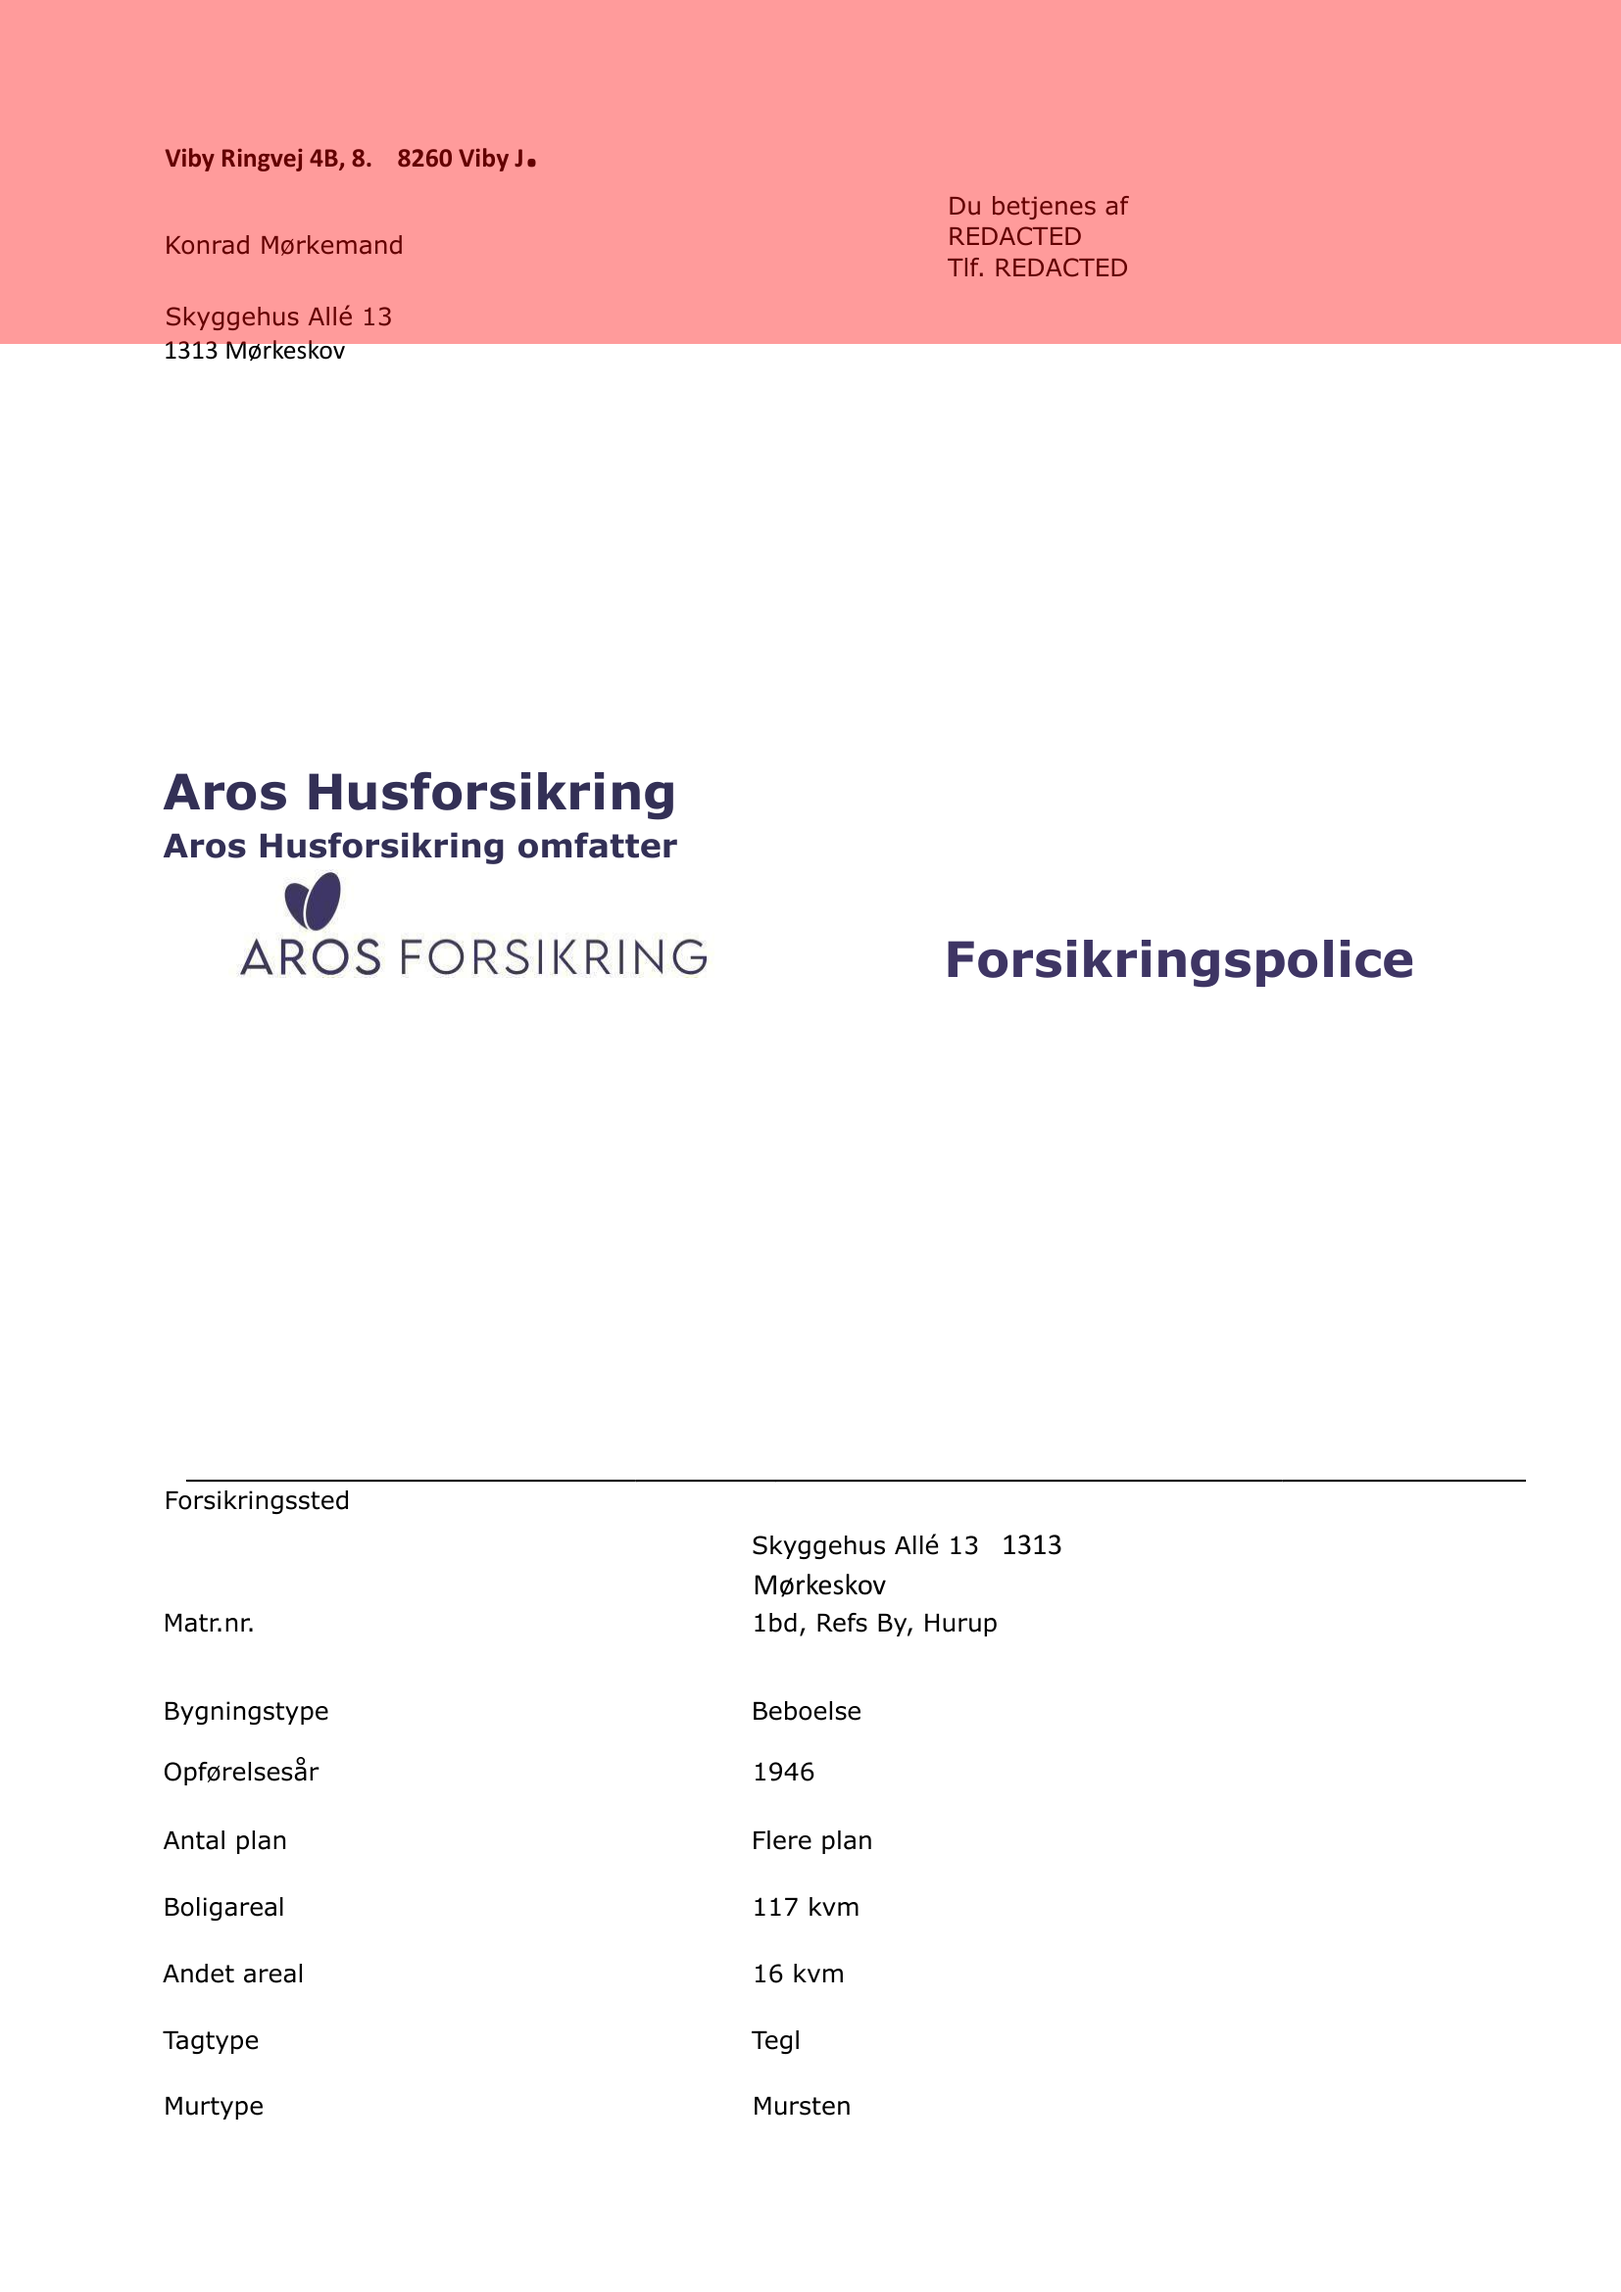
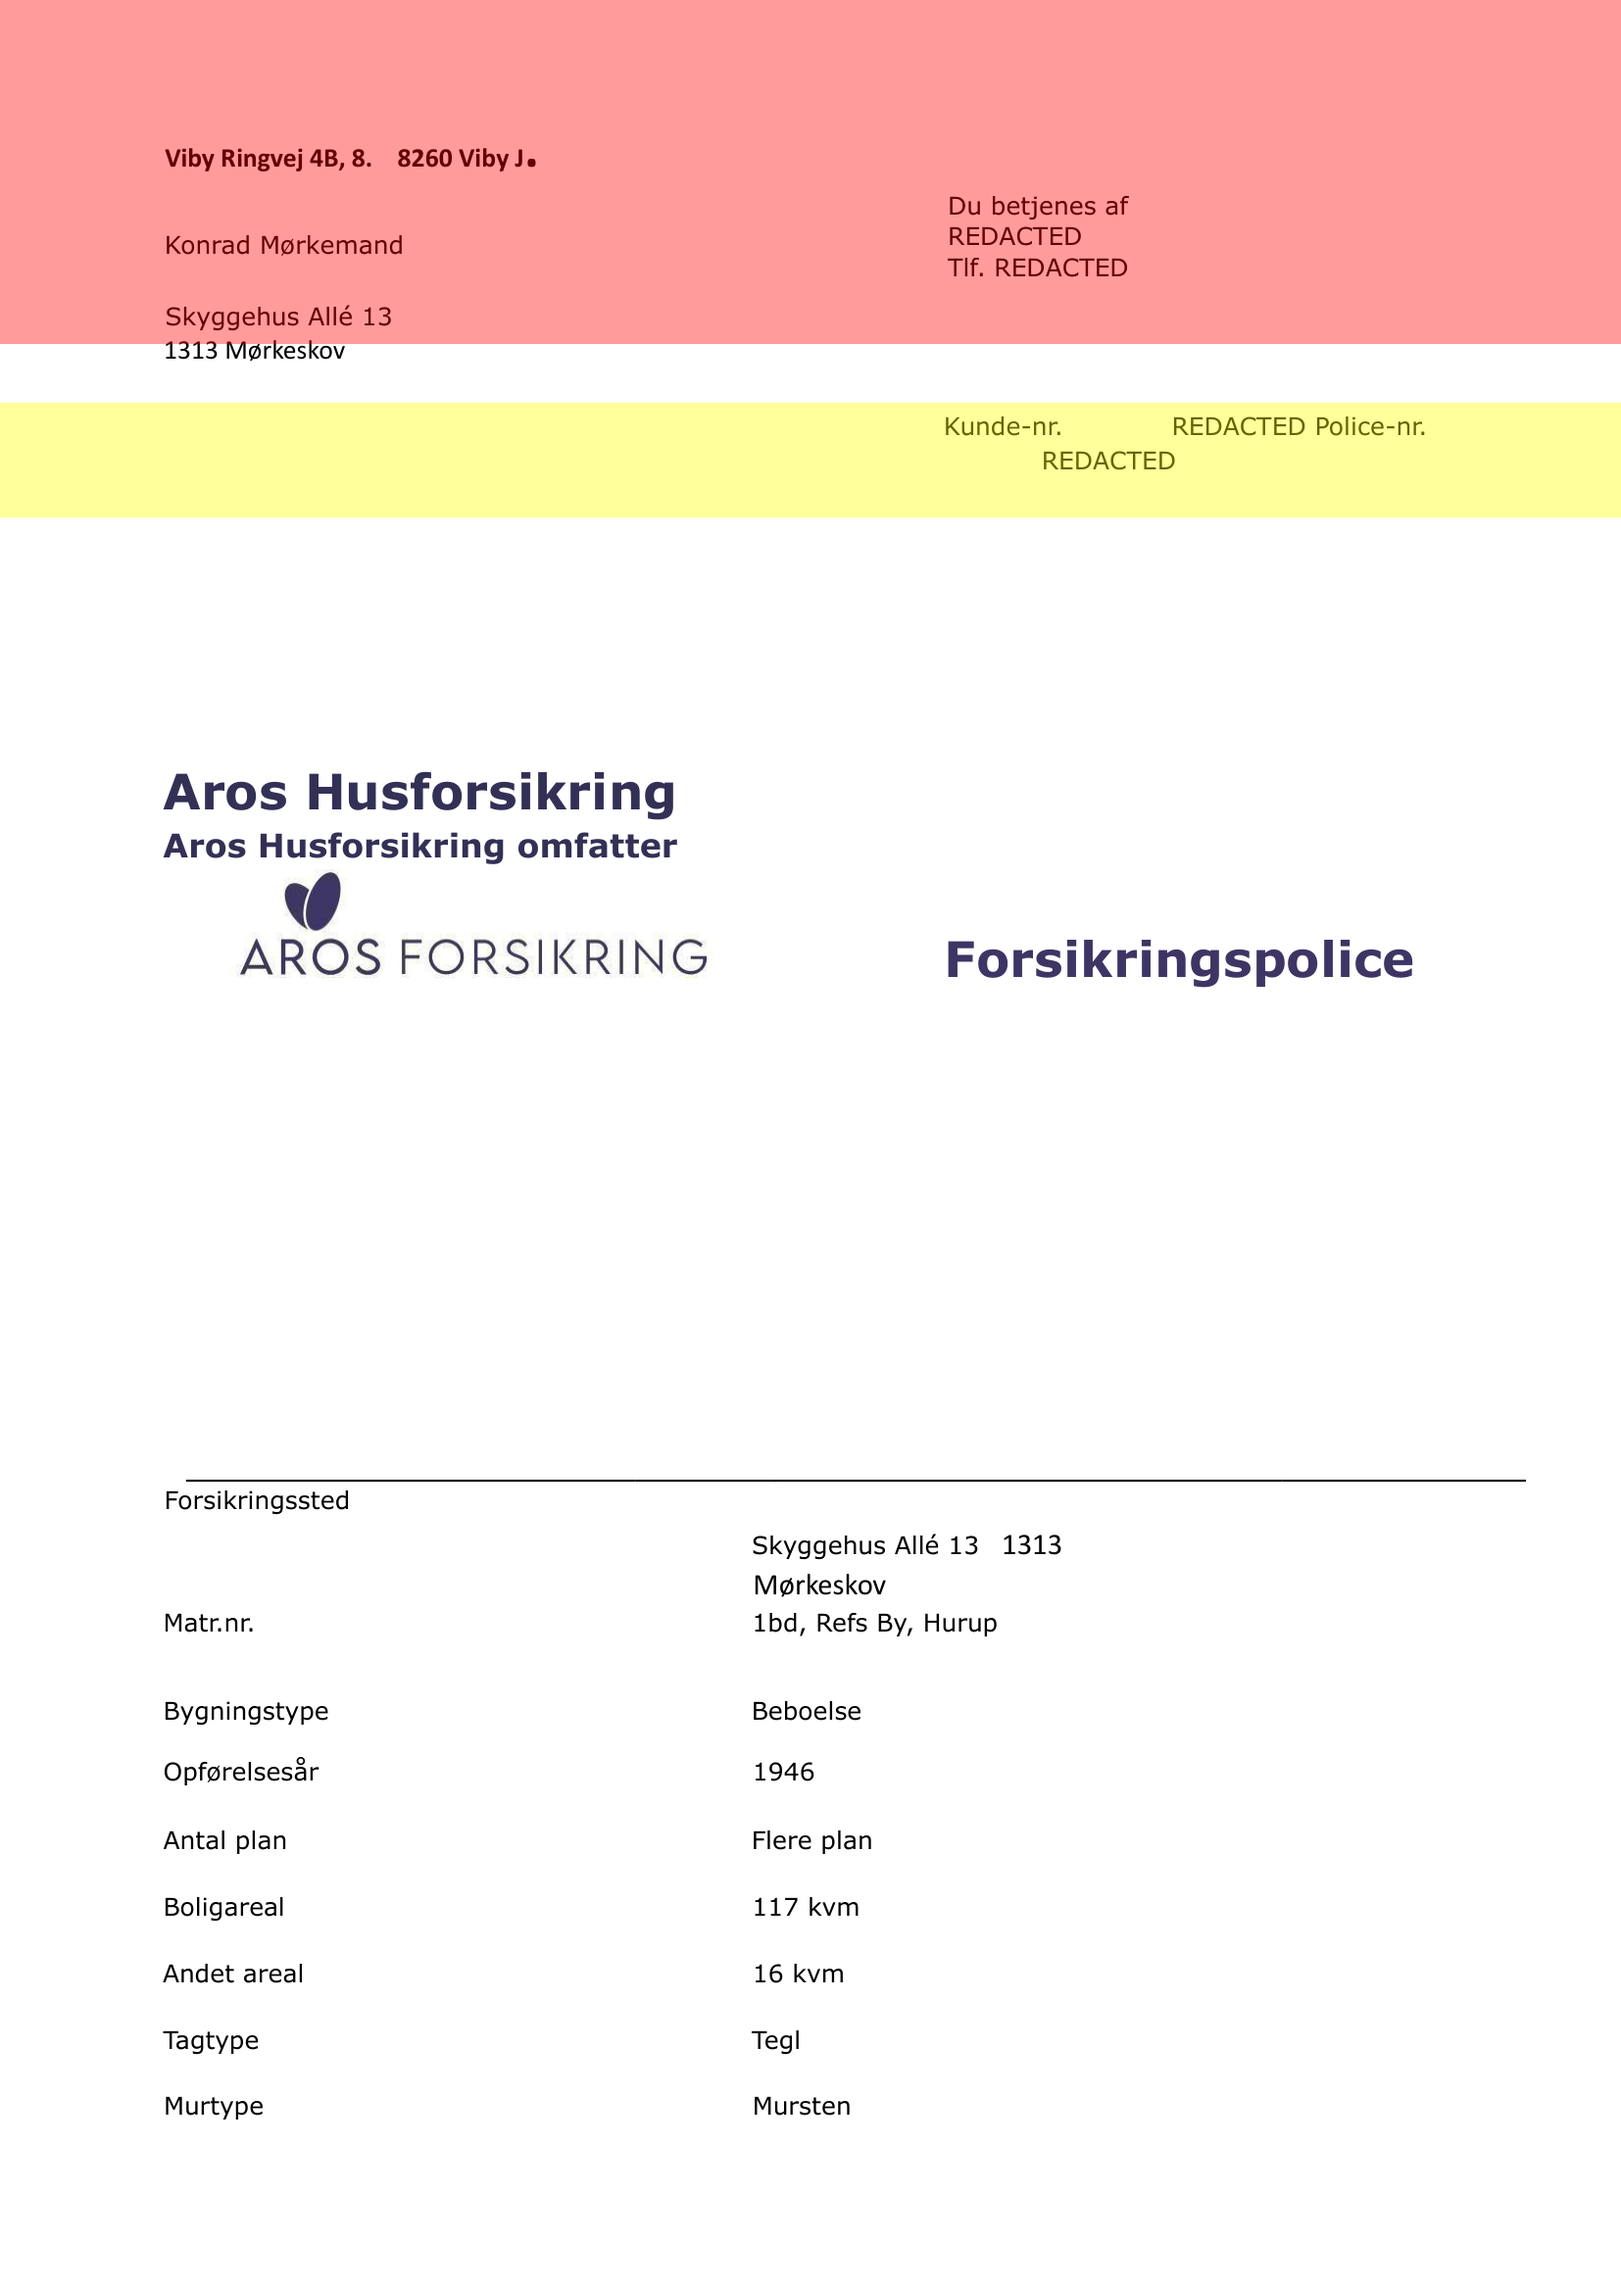
Better debug image

Changed region(s): [[0.0, 0.156, 1.0, 0.2497]]

diff --git a/backend/models/tesseractocr.py b/backend/models/tesseractocr.py
@@ -8,8 +8,11 @@ import os
 from PIL import ImageDraw
 import pandas as pd
 
-def erase_from_text_start(image, crop_percent=25, buffer_px=10, lang="dan", top_percent=15, right_percent=100):
-    """Ignore top-right corner for content start, then blank upward-adjusted crop region."""
+def erase_from_text_start(image, crop_percent=25, buffer_px=10, lang="dan", top_percent=15, right_percent=100, debug_save_path=None):
+    """Highlight areas with semi-transparent red/yellow directly on RGB image before erasing."""
+    import pytesseract
+    from PIL import ImageDraw
+
     ocr_data = pytesseract.image_to_data(image, lang=lang, output_type=pytesseract.Output.DATAFRAME)
     valid_data = ocr_data[(ocr_data.conf != -1) & (ocr_data.text.notna()) & (ocr_data.text.str.strip() != "")]
 
@@ -23,11 +26,9 @@ def erase_from_text_start(image, crop_percent=25, buffer_px=10, lang="dan", top_
 
     draw = ImageDraw.Draw(image, "RGBA")
 
-    # Draw exclusion zone (semi-transparent red in top-right)
-    exclusion_color = (255, 0, 0, 100)
-    draw.rectangle([(right_x_start, 0), (width, top_y_end)], fill=exclusion_color)
+    # ✅ Draw semi-transparent red (exclusion zone)
+    draw.rectangle([(right_x_start, 0), (width, top_y_end)], fill=(255, 0, 0, 100))
 
-    # Filter out text in exclusion zone
     filtered_data = valid_data[
         ~(
             (valid_data.left >= right_x_start) &
@@ -39,23 +40,34 @@ def erase_from_text_start(image, crop_percent=25, buffer_px=10, lang="dan", top_
         print("⚠ All text was in the exclusion zone. Skipping blanking.")
         return image
 
-    # Adjust crop start upward slightly and determine crop range
     start_y_raw = filtered_data['top'].min()
     erase_y_start = max(0, start_y_raw - buffer_px)
     crop_height = int(height * (crop_percent / 100.0))
     erase_y_end = min(height, erase_y_start + crop_height)
 
-    # Draw blanked area (semi-transparent yellow)
-    blank_color = (255, 255, 0, 100)
-    draw.rectangle([(0, erase_y_start), (width, erase_y_end)], fill=blank_color)
+    # ✅ Draw semi-transparent yellow (erase zone)
+    draw.rectangle([(0, erase_y_start), (width, erase_y_end)], fill=(255, 255, 0, 100))
 
-    # Actually blank the area for OCR
+    # ✅ Save before white-out
+    if debug_save_path:
+        image.save(debug_save_path)
+        print(f"✅ Debug image saved to {debug_save_path}")
+
+    # ✅ Now actually erase
     draw.rectangle([(0, erase_y_start), (width, erase_y_end)], fill="white")
 
-    print(f"Blanked from Y={erase_y_start}px to Y={erase_y_end}px (text starts at Y={start_y_raw}, adjusted up by {buffer_px}px)")
+    print(f"✂ Blanked from Y={erase_y_start}px to Y={erase_y_end}px (text starts at Y={start_y_raw}, adjusted up by {buffer_px}px)")
     return image
 
+
 def pdf_to_text(pdf_path, output_folder, lang="dan", include_confidence=True):
+    from pdf2image import convert_from_path
+    import numpy as np
+    import pytesseract
+    import json
+    import os
+    import time
+
     images = convert_from_path(pdf_path)
     extracted_text = ""
     confidence_scores = []
@@ -68,16 +80,13 @@ def pdf_to_text(pdf_path, output_folder, lang="dan", include_confidence=True):
 
     for i, image in enumerate(images):
         if i == 0:
-            image = erase_from_text_start(image, crop_percent=5, buffer_px=10, lang=lang)
-
-        # Save image for inspection
-        if i == 0:
-            # Save only the first page image
             debug_image_path = output_folder / f"{pdf_path.stem}_page1_debug.png"
-            image.save(debug_image_path)
-            print(f"Saved debug image to {debug_image_path}")
+            image = erase_from_text_start(image, crop_percent=5, buffer_px=10, lang=lang, debug_save_path=debug_image_path)
 
-        print(f"Saved page {i + 1} image to {debug_image_path}")
+
+
+        if i == 0:
+            print(f"Saved page {i + 1} image to {debug_image_path}")
 
         # OCR processing
         if include_confidence:
